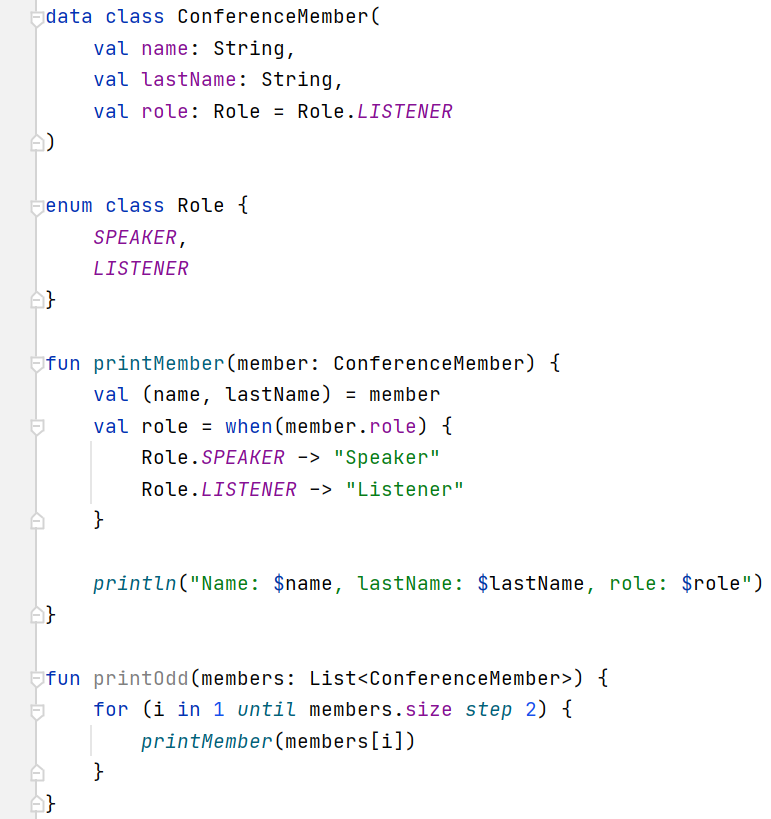
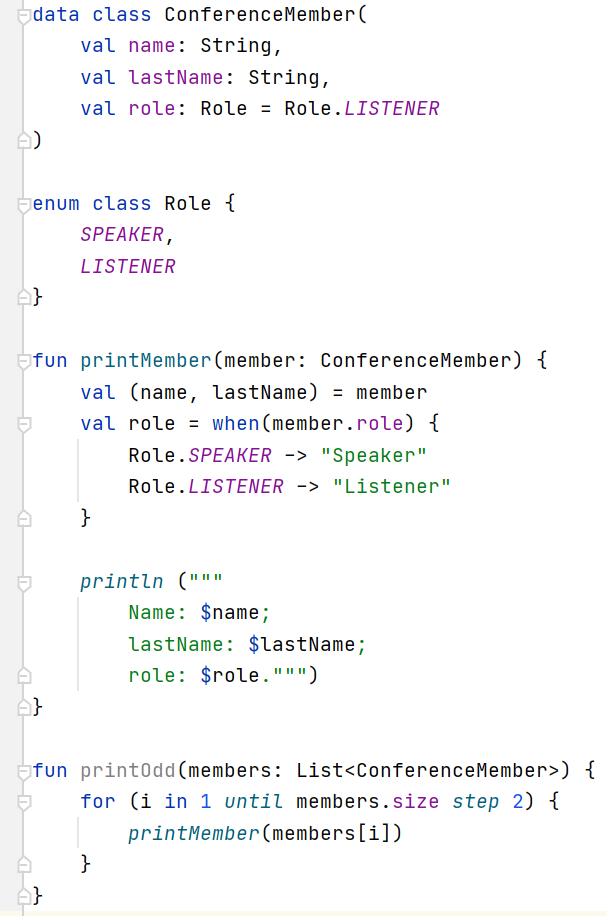
more snippets

diff --git a/modkotlin/src/main/kotlin/logeeknight/Slide11Syntax.kt b/modkotlin/src/main/kotlin/logeeknight/Slide11Syntax.kt
@@ -1,5 +1,7 @@
 package logeeknight
 
+import java.lang.reflect.Member
+
 data class ConferenceMember(
     val name: String,
     val lastName: String,
@@ -18,7 +20,10 @@ fun printMember(member: ConferenceMember) {
         Role.LISTENER -> "Listener"
     }
 
-    println("Name: $name, lastName: $lastName, role: $role")
+    println ("""
+        Name: $name;
+        lastName: $lastName;
+        role: $role.""")
 }
 
 fun printOdd(members: List<ConferenceMember>) {
